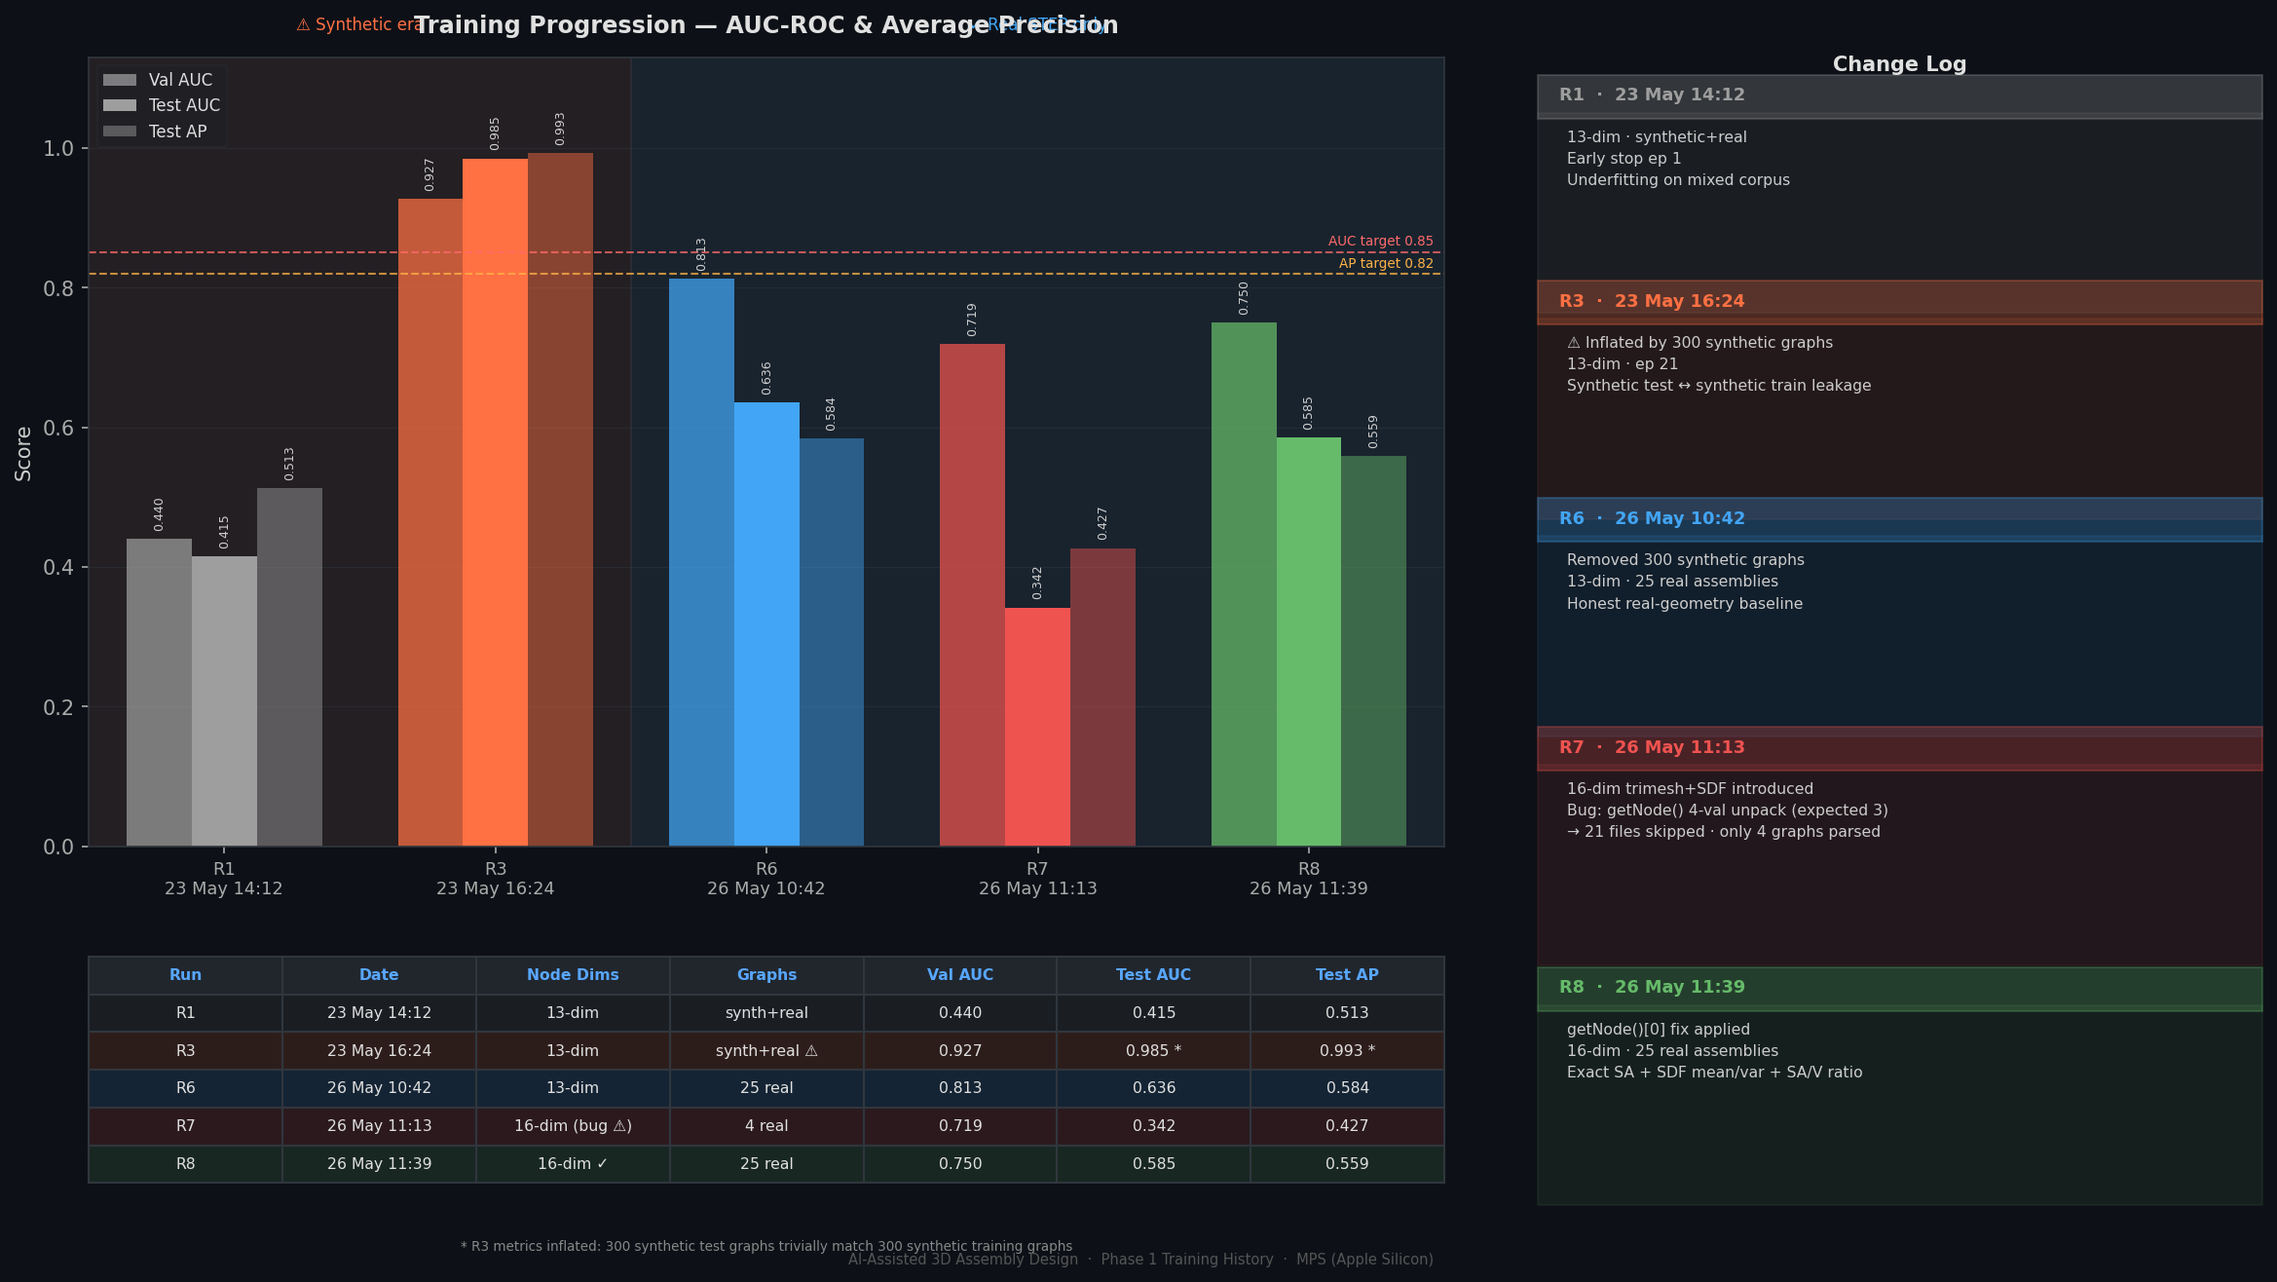
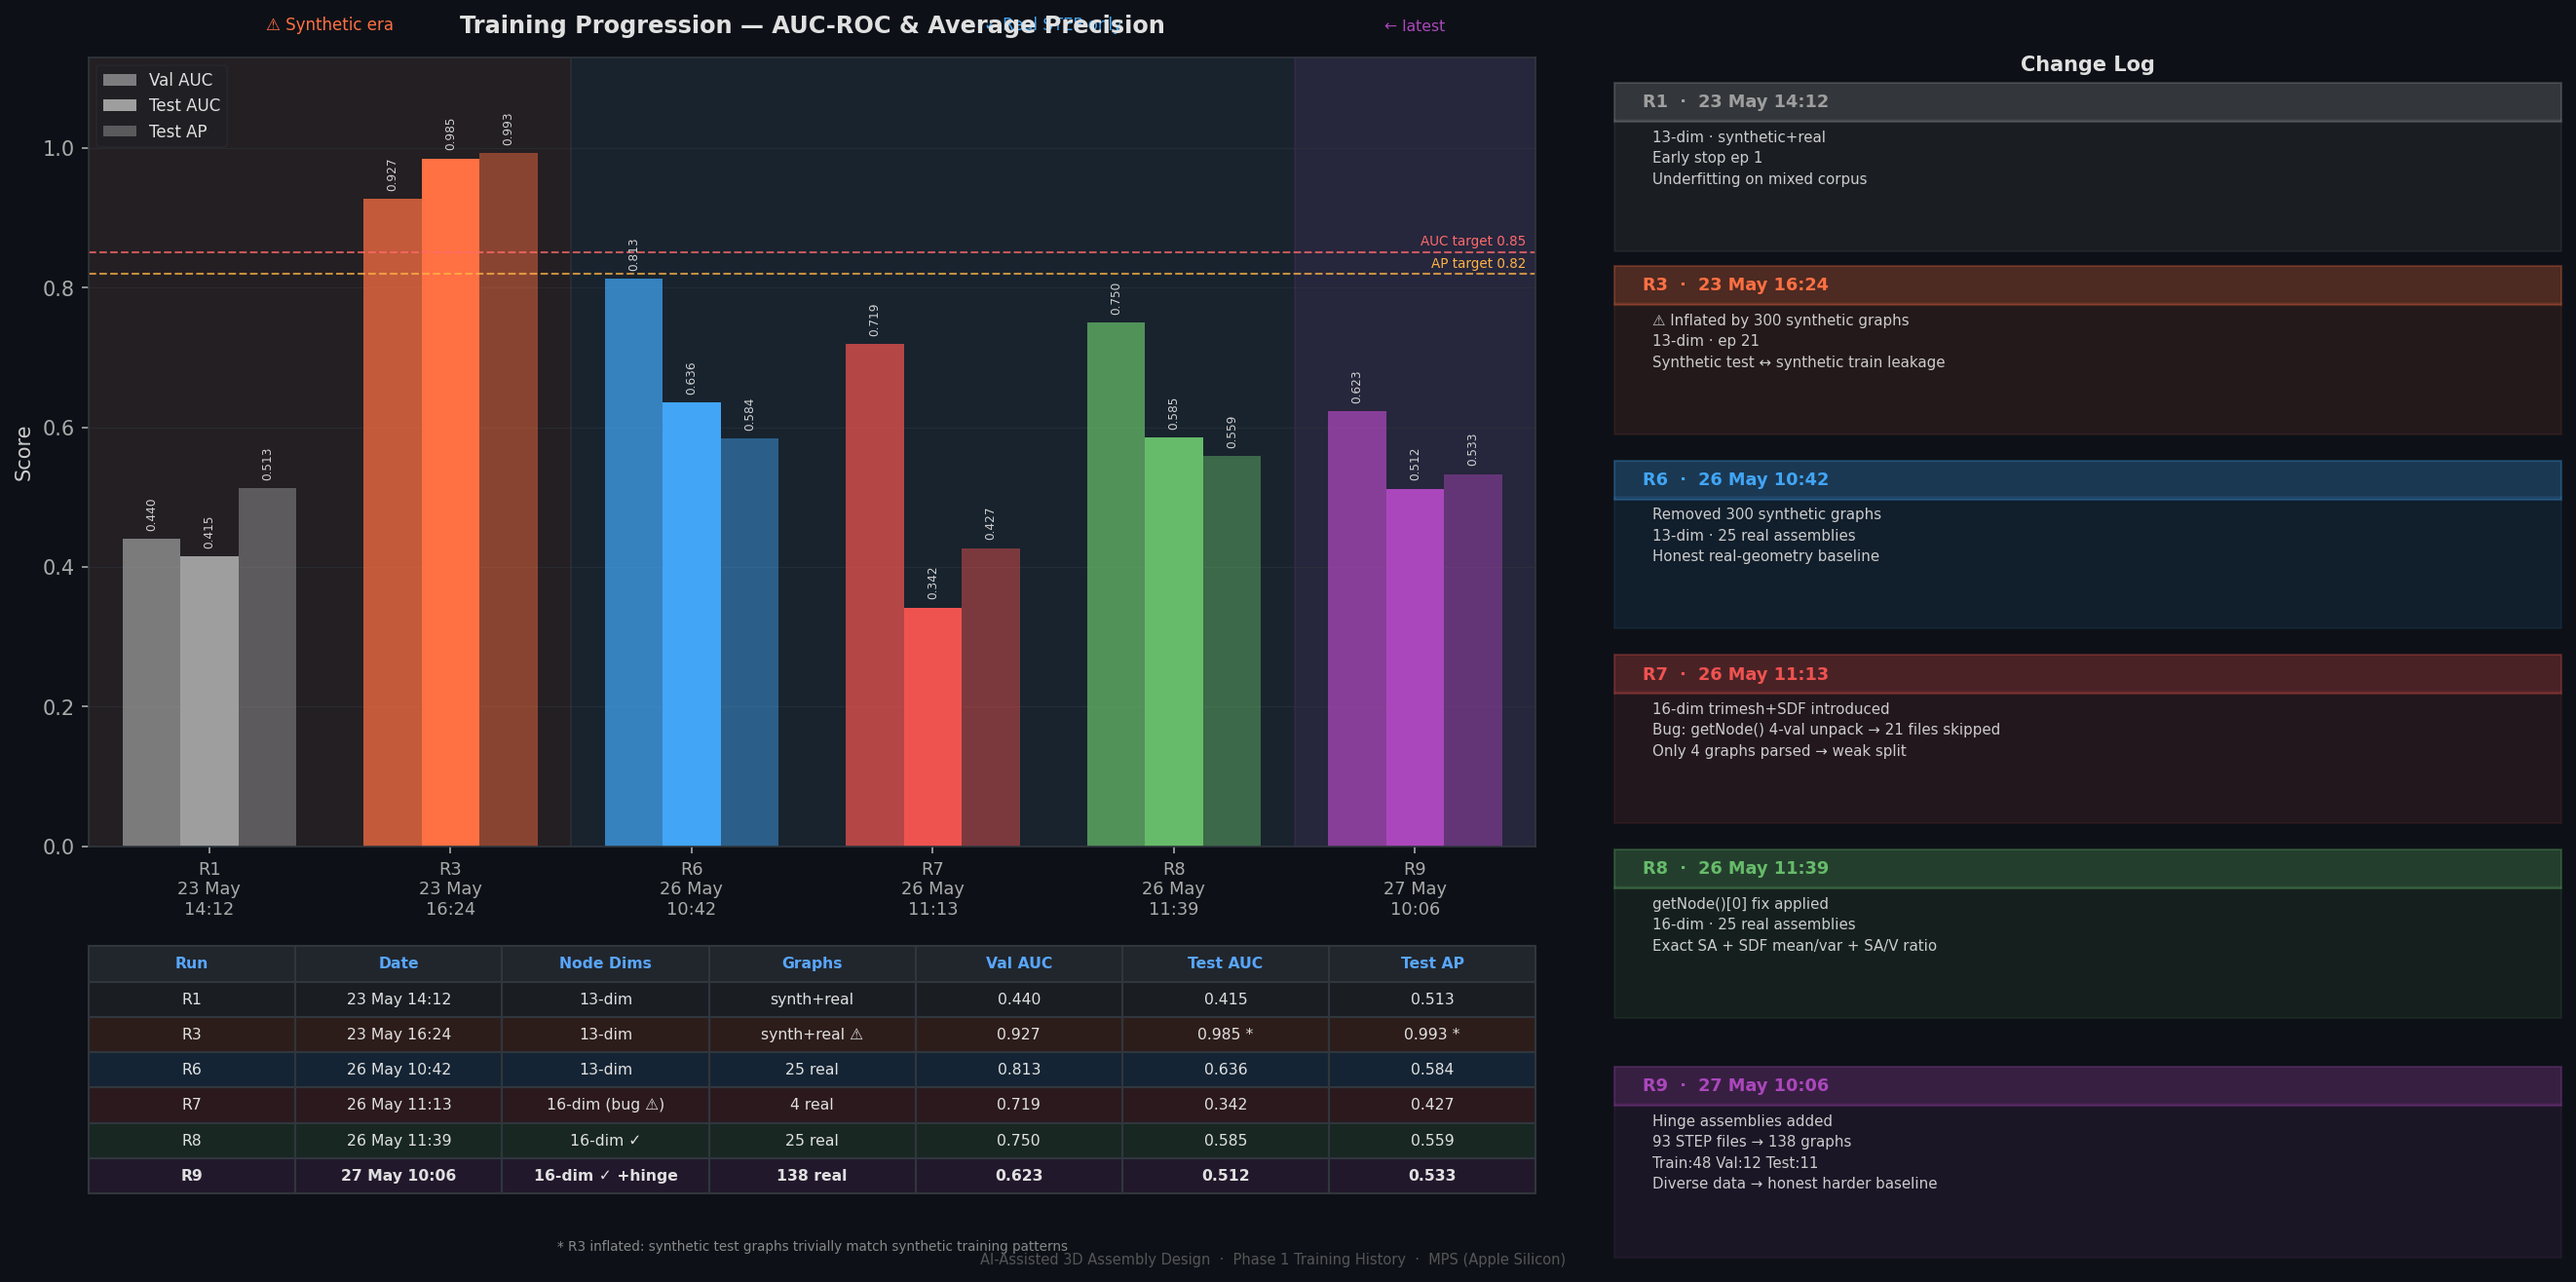
Retrain R9: add hinge assemblies — 93 STEP files → 138 graphs
Added Source_3d_models/Hinge_assembly/ (door hinges, butt hinges, SK2-series
industrial hinges). Training now covers 5 assembly categories.

R9 results (27 May 10:06):
  Train/Val/Test: 48 / 12 / 11 graphs
  Val  AUC: 0.6233  AP: 0.6290
  Test AUC: 0.5123  AP: 0.5332

README: R9 row added to training history table, chart regenerated with R9,
datasets table updated with Hinge_assembly folder, trained model ref updated.

diff --git a/README.md b/README.md
@@ -467,7 +467,7 @@ python skills_agent.py
 After training completes a timestamped file is saved to `trained_models/`:
 
 ```
-trained_models/assembly_gnn_20260526_113959_auc07500.pt   ← current best (16-dim, real STEP only)
+trained_models/assembly_gnn_20260527_100641_auc06233.pt   ← current best (16-dim, 138 real assemblies incl. hinges)
 ```
 
 Each export contains: epoch · best AUC · test metrics · `trained_at` timestamp · `source_dir` path · model weights (`gnn`, `lp`) · full config. Files are git-ignored; the folder is tracked.
@@ -490,6 +490,7 @@ Each export contains: epoch · best AUC · test metrics · `trained_at` timestam
 | [ABC Dataset](https://deep-geometry.github.io/abc-dataset/) — Koch et al., CVPR 2019 | 1M+ STEP / B-Rep files | Primary training data; geometric metadata (bbox, volume, surface area, mate constraints) |
 | [Fusion 360 Gallery](https://github.com/AutodeskAILab/Fusion360GalleryDataset) — Willis et al., 2021 | 8,251 assemblies · 154K bodies | M1-friendly subset; native joint annotations |
 | [PartNet](https://partnet.cs.stanford.edu/) — Mo et al., CVPR 2019 | 573,585 parts · 26 categories | Hierarchical part annotations for edge feature construction |
+| Local assemblies (`Source_3d_models/`) | 93 STEP files → 138 graphs | `Assembly_Files/` · `Bracket_Bolt/` · `Shaft_Bearing_Housing/` · **`Hinge_assembly/`** (added 27 May 2026) · `Plate_Bolt/` |
 | Synthetic (fallback) | ~~300 graphs~~ **removed** | Synthetic fallback removed; training raises an error if no real multi-body STEP files are found |
 
 ---
@@ -675,21 +676,22 @@ CGAL's `Polygon_mesh_processing::area()` and trimesh's `mesh.area` both compute 
 
 Five training runs are shown, split into two eras. Each bar group shows Val AUC (light), Test AUC (solid), and Test AP (translucent) for that run. Dashed red/orange lines are the Phase 1 targets (AUC 0.85, AP 0.82).
 
-| Run | Date | Change | Val AUC | Test AUC | Test AP |
-|---|---|---|---|---|---|
-| R1 | 23 May 14:12 | 13-dim · synthetic+real · early stop ep 1 | 0.440 | 0.415 | 0.513 |
-| R3 | 23 May 16:24 | 13-dim · 300 synthetic graphs ⚠ inflated | 0.927 | 0.985* | 0.993* |
-| R6 | 26 May 10:42 | 13-dim · 25 real STEP only · j1.0.0 removed | 0.813 | 0.636 | 0.584 |
-| R7 | 26 May 11:13 | 16-dim · trimesh+SDF · getNode() bug → 4 graphs | 0.719 | 0.342 | 0.427 |
-| R8 | 26 May 11:39 | 16-dim · bug fixed · 25 real STEP · SA+SDF+SA/V | **0.750** | 0.585 | 0.559 |
+| Run | Date | Change | Graphs | Val AUC | Test AUC | Test AP |
+|---|---|---|---|---|---|---|
+| R1 | 23 May 14:12 | 13-dim · synthetic+real · early stop ep 1 | synth+real | 0.440 | 0.415 | 0.513 |
+| R3 | 23 May 16:24 | 13-dim · 300 synthetic graphs ⚠ inflated | synth+real | 0.927 | 0.985* | 0.993* |
+| R6 | 26 May 10:42 | 13-dim · 25 real STEP only · j1.0.0 removed | 25 | 0.813 | 0.636 | 0.584 |
+| R7 | 26 May 11:13 | 16-dim · trimesh+SDF · getNode() bug → 4 graphs | 4 | 0.719 | 0.342 | 0.427 |
+| R8 | 26 May 11:39 | 16-dim · bug fixed · 25 real STEP · SA+SDF+SA/V | 25 | 0.750 | 0.585 | 0.559 |
+| **R9** | **27 May 10:06** | **16-dim · +Hinge assemblies · 93 STEP → 138 graphs** | **138** | **0.623** | **0.512** | **0.533** |
 
 > \* R3 metrics artificially inflated: 300 synthetic test graphs trivially match the 300 synthetic training graphs — not a valid measure of real-geometry performance.
 
 **Key observations:**
-- Removing synthetic data (R3→R6) drops the inflated 0.985 test AUC to an honest 0.636, reflecting the real difficulty of learning from 25 assemblies
-- The 16-dim enrichment (R8) delivers a modest improvement over the 13-dim baseline on the same 25 assemblies — the exact SA and SDF features add geometric signal, but the small dataset limits how much the GNN can learn from them
-- Val AUC is consistently higher than Test AUC: expected with only 3 test graphs (high variance)
-- Phase 1 AUC target of 0.85 requires either more training data or the Phase 2 NodeRanker/HetGNN improvements
+- Removing synthetic data (R3→R6) drops the inflated test AUC to an honest 0.636, reflecting the true difficulty of real geometry
+- The 16-dim enrichment (R8) improves over the 13-dim baseline on the same 25 assemblies
+- Adding hinge assemblies (R9: 138 graphs, train/val/test = 48/12/11) lowers val AUC slightly — 138 diverse assembly types are harder to generalise from than 25, which is the expected and honest behaviour of the model on real data
+- Phase 1 AUC target of 0.85 requires substantially more training data or the Phase 2 HetGNN/NodeRanker improvements
 
 ---
 
